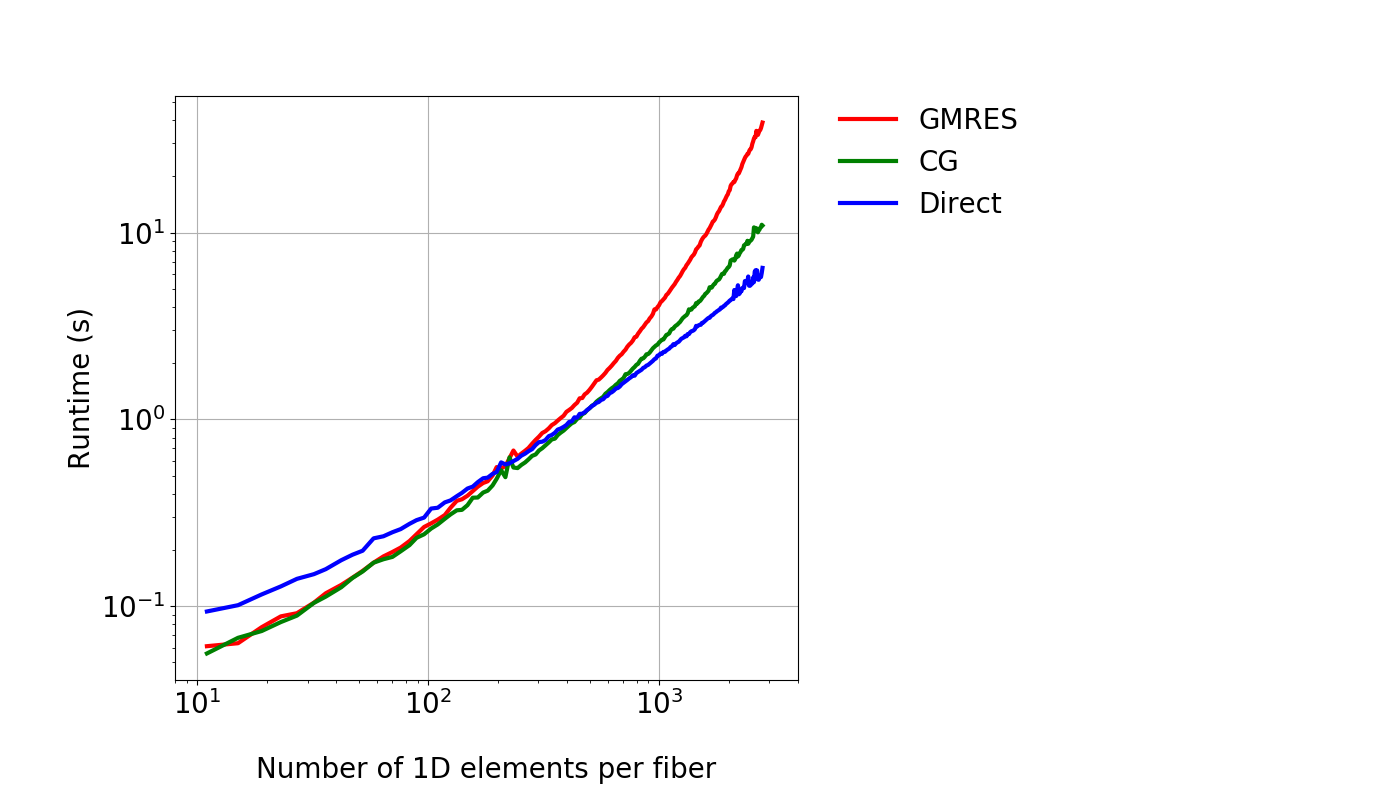
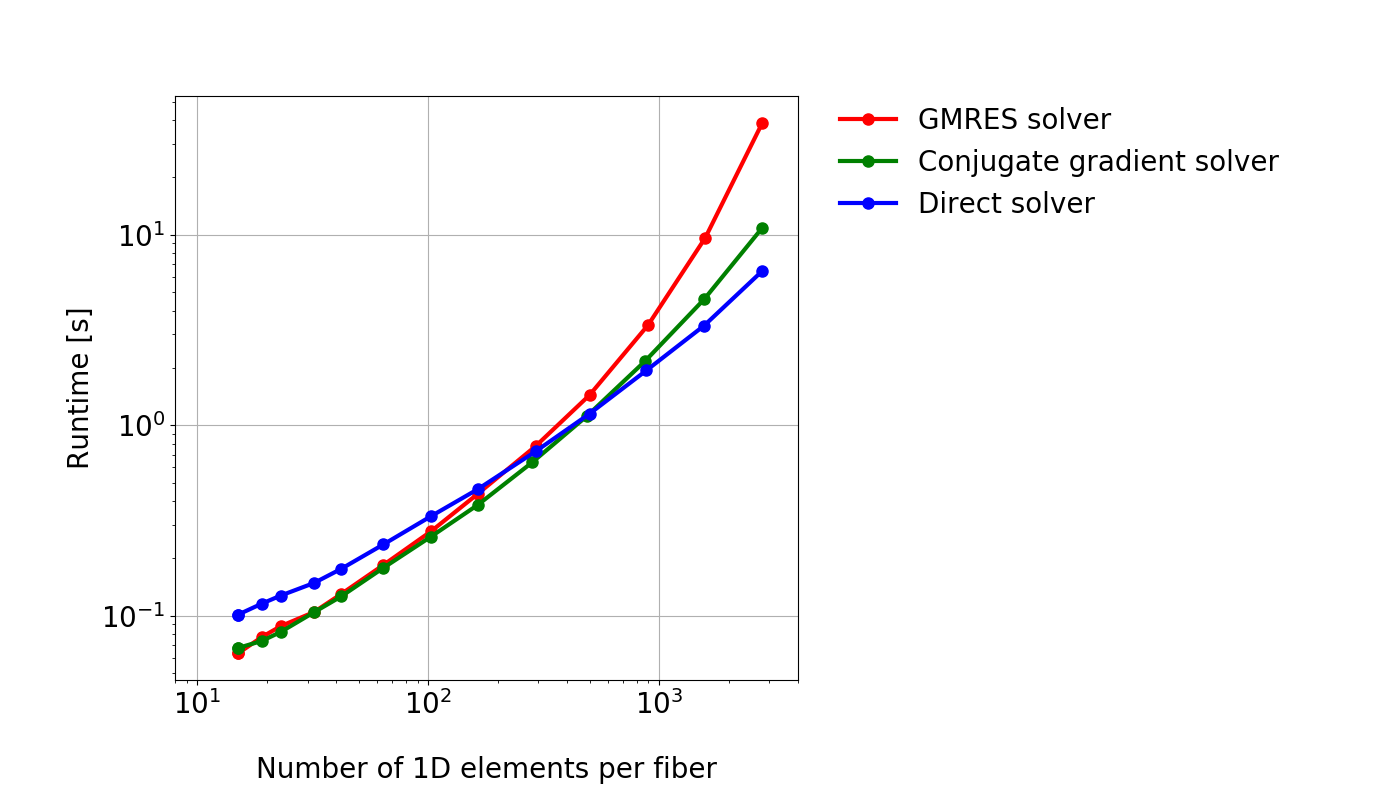
ue

diff --git a/1Dsolver/plot_reduced.py b/1Dsolver/plot_reduced.py
@@ -422,9 +422,9 @@ colors = {
   13: "ko-",
   15: "ko-",    # total
   17: "yd-",    # 0D solver
-  "parabolic1|1": "b",   # LU
-  "parabolic2|1": "r",   # GMRES
-  "parabolic3|1": "g",   # CG
+  "parabolic1|1": "bo-",   # LU
+  "parabolic2|1": "ro-",   # GMRES
+  "parabolic3|1": "go-",   # CG
   "parabolic3|2": "ro:",
   "parabolic3|3": "r+-",
   "parabolic3|4": "r+--",
@@ -440,9 +440,9 @@ labels = {
   13: "Duration main simulation",
   15: "total runtime",
   17: "solver 0D model",
-  "parabolic1|1": "Direct",
-  "parabolic2|1": "GMRES",
-  "parabolic3|1": "CG",
+  "parabolic1|1": "Direct solver",
+  "parabolic2|1": "GMRES solver",
+  "parabolic3|1": "Conjugate gradient solver",
   "parabolic3|2": "Parabolic solver (CG, Jacobi)",
   "parabolic3|3": "Parabolic solver (CG, Block Jacobi)",
   "parabolic3|4": "Parabolic solver (CG, SOR)",
@@ -471,6 +471,15 @@ for plotkey in plotkeys:
   xlist = sorted(plotdata[plotkey]["value"])
   ylist = [y for y in plotdata[plotkey]["value"].values()]
   yerr = [y for y in plotdata[plotkey]['variance'].values()]
+
+  n = len(xlist)
+  basis = 1.5
+  iend = int(np.log(n)/np.log(basis))
+  indices = [int(basis**i) for i in range(0,iend+1)]
+  
+  xlist = [xlist[i] for i in indices] + [xlist[-1]]
+  ylist = [ylist[i] for i in indices] + [ylist[-1]]
+  yerr = [yerr[i] for i in indices] + [yerr[-1]]
 
   #plt.errorbar(xlist, ylist, fmt=colors[plotkey], yerr=yerr, label=labels[plotkey])
   plt.plot(xlist, ylist, colors[plotkey], label=labels[plotkey])
@@ -501,7 +510,7 @@ ax.set_xlim([8, 4e3])
 #ax.set_xticks([1,2,4,8,12,16,24,32,64])
 plt.xlabel('Number of 1D elements per fiber')
 ax.xaxis.set_label_coords(0.5, -0.13)
-plt.ylabel('Runtime (s)')
+plt.ylabel('Runtime [s]')
 
 plt.subplots_adjust(right=0.57, bottom=0.15)
 plt.legend(bbox_to_anchor=(1.05, 1), loc=2, borderaxespad=0., frameon=False)

diff --git a/1Dsolver/plot_serial_scaling.py b/1Dsolver/plot_serial_scaling.py
@@ -457,7 +457,7 @@ for plotkey in plotkeys:
 ax = plt.gca()
 #ax.set_xscale('log', basey=2) 
 ax.set_yscale('log', basey=10) 
-ax.set_xscale('log', basey=10) 
+ax.set_xscale('log', basex=10) 
 #ax.set_xticks([1,2,4,8,12,16,24,32,64])
 plt.xlabel('number of bioelectric elements')
 plt.ylabel('duration (s)')
